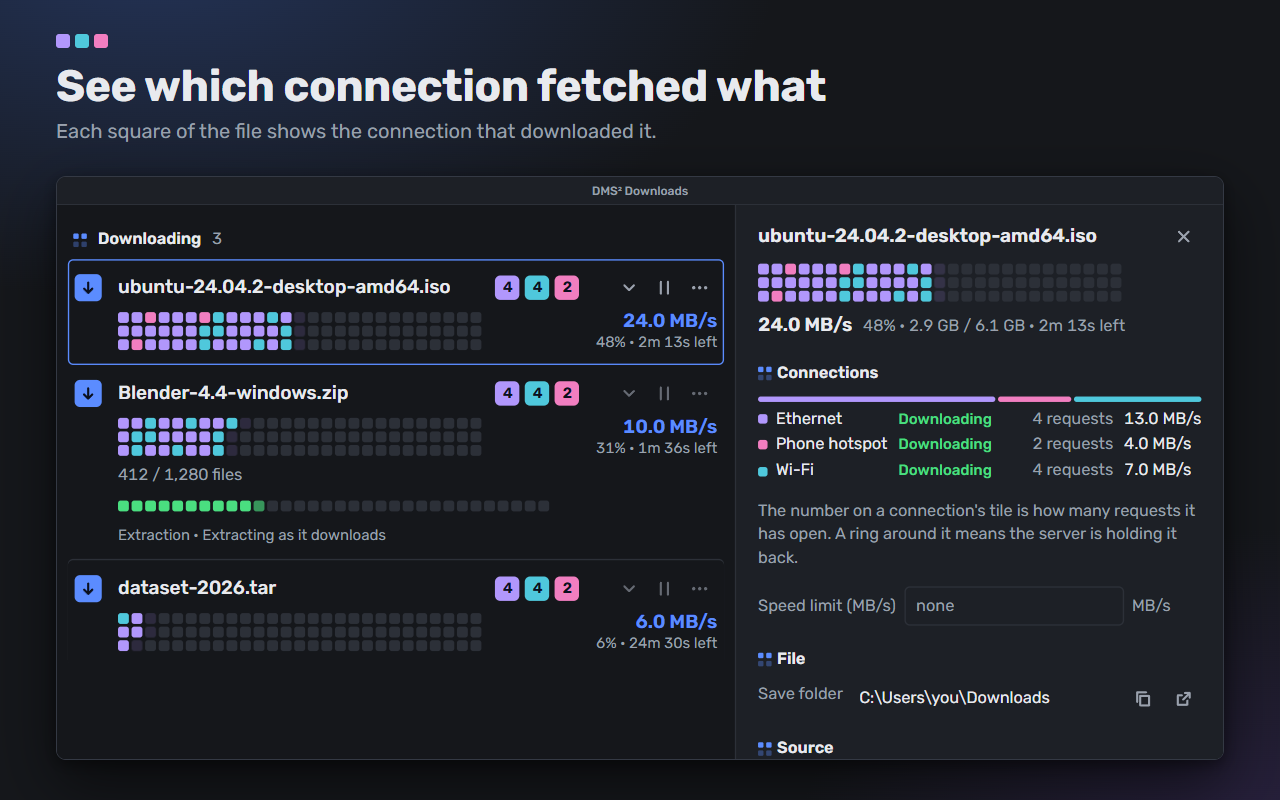
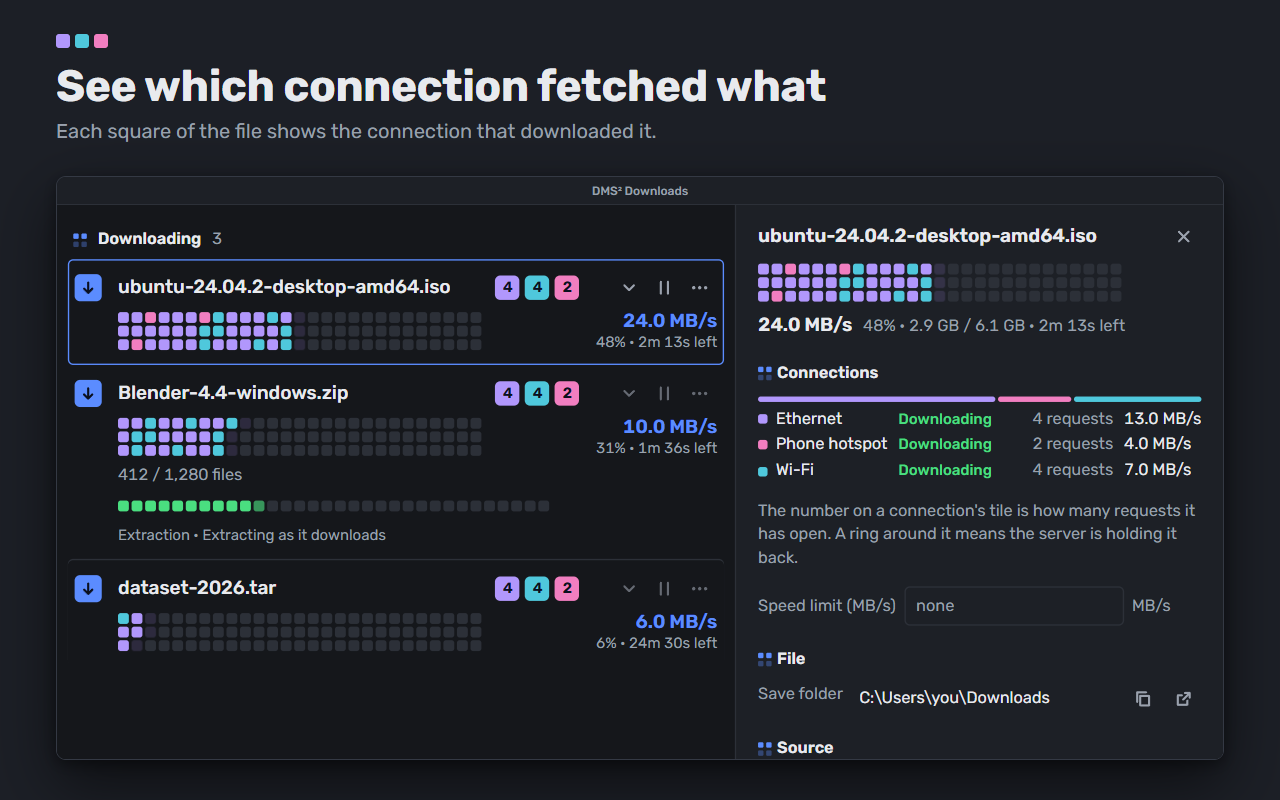
Store screenshots sit on a plain background: the two coloured glows behind the window were decoration only

Changed region(s): [[0.0, 0.0, 0.3125, 0.125]]

diff --git a/extension/dev/store/shot.html b/extension/dev/store/shot.html
@@ -7,7 +7,7 @@
   @font-face { font-family: Rubik; src: url("/ui/fonts/Rubik.ttf") format("truetype"); font-weight: 300 900; font-display: block; }
   * { box-sizing: border-box; margin: 0; }
   html, body { width: 1280px; height: 800px; overflow: hidden; background: #0f1115; font-family: Rubik, sans-serif; color: #e8eaee; }
-  body { position: relative; background: radial-gradient(900px 520px at 12% -8%, #243459 0%, rgba(36, 52, 89, 0) 70%), radial-gradient(700px 500px at 100% 110%, #2a2142 0%, rgba(42, 33, 66, 0) 70%), #15171b; }
+  body { position: relative; background: #1c1f26; }
   .cap { position: absolute; left: 56px; top: 34px; width: 1168px; }
   .tiles { display: flex; gap: 5px; margin-bottom: 14px; }
   .tiles i { width: 14px; height: 14px; border-radius: 3px; }
